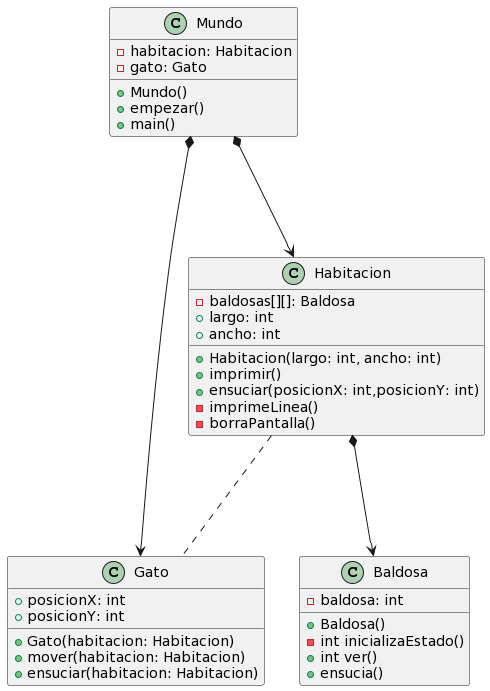
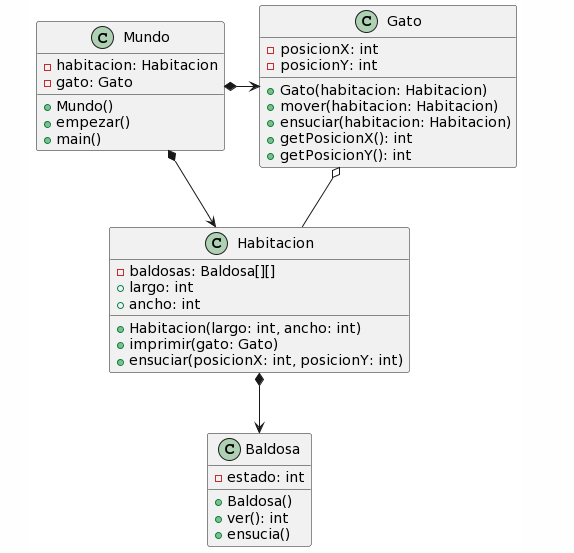
new version the world

diff --git a/Habitacion.java b/Habitacion.java
@@ -1,43 +1,28 @@
 public class Habitacion {
-
     private Baldosa[][] baldosas;
-    public int largo, ancho;
+    private int largo;
+    private int ancho;
 
     public Habitacion(int largo, int ancho) {
         this.largo = largo;
         this.ancho = ancho;
-        baldosas = new Baldosa[this.largo][this.ancho];
-        for (int i = 0; i < this.largo; i++) {
-            for (int j = 0; j < this.ancho; j++) {
-                this.baldosas[i][j] = new Baldosa();
-            }
-        }
-    }
-
-    public void imprimir() {
-        char vistaBaldosa;
-        borraPantalla();
-        imprimeLinea();
+        baldosas = new Baldosa[largo][ancho];
         for (int i = 0; i < largo; i++) {
-            for (int j = 0; j < this.ancho; j++) {
-                vistaBaldosa = " .oO#".charAt(this.baldosas[i][j].ver());
-                System.out.print(" " + vistaBaldosa + " ");
+            for (int j = 0; j < ancho; j++) {
+                baldosas[i][j] = new Baldosa();
             }
-            System.out.println();
         }
-        imprimeLinea();
     }
 
     public void imprimir(Gato gato) {
-        char vistaBaldosa;
         borraPantalla();
         imprimeLinea();
         for (int i = 0; i < largo; i++) {
             for (int j = 0; j < ancho; j++) {
-                if (gato.posicionX == j && gato.posicionY == i) {
+                if (gato.getPosicionX() == j && gato.getPosicionY() == i) {
                     System.out.print(">G<");
                 } else {
-                    vistaBaldosa = " .oO#".charAt(baldosas[i][j].ver());
+                    char vistaBaldosa = " .oO#".charAt(baldosas[i][j].ver());
                     System.out.print(" " + vistaBaldosa + " ");
                 }
             }
@@ -60,5 +45,13 @@ public class Habitacion {
     private void borraPantalla() {
         System.out.print("\033[H\033[2J");
         System.out.flush();
+    }
+
+    public int getLargo() {
+        return largo;
+    }
+
+    public int getAncho() {
+        return ancho;
     }
 }

diff --git a/Gato.java b/Gato.java
@@ -1,19 +1,23 @@
-public class Gato {
 
-    public int posicionX, posicionY;
+public class Gato {
+    private int posicionX;
+    private int posicionY;
 
     public Gato(Habitacion habitacion) {
-        posicionX = (int) (Math.random() * habitacion.ancho);
-        posicionY = (int) (Math.random() * habitacion.largo);
+        posicionX = (int) (Math.random() * habitacion.getAncho());
+        posicionY = (int) (Math.random() * habitacion.getLargo());
     }
 
     public void mover(Habitacion habitacion) {
         double aleatorio = Math.random();
-        if (aleatorio < .25 && posicionX + 1 < habitacion.ancho) {
+        int ancho = habitacion.getAncho();
+        int largo = habitacion.getLargo();
+
+        if (aleatorio < 0.25 && posicionX + 1 < ancho) {
             posicionX++;
-        } else if (aleatorio < .5 && posicionX > 0) {
+        } else if (aleatorio < 0.5 && posicionX > 0) {
             posicionX--;
-        } else if (aleatorio < .75 && posicionY + 1 < habitacion.largo) {
+        } else if (aleatorio < 0.75 && posicionY + 1 < largo) {
             posicionY++;
         } else if (aleatorio < 1 && posicionY > 0) {
             posicionY--;
@@ -21,8 +25,16 @@ public class Gato {
     }
 
     public void ensuciar(Habitacion habitacion) {
-        if (Math.random() > .75) {
+        if(Math.random() > .75) {
             habitacion.ensuciar(posicionX, posicionY);
         }
+    }
+
+    public int getPosicionX() {
+        return posicionX;
+    }
+
+    public int getPosicionY() {
+        return posicionY;
     }
 }

diff --git a/Baldosa.java b/Baldosa.java
@@ -1,17 +1,18 @@
+import java.util.Random;
+
 public class Baldosa {
-
     private int estado;
-
     private static final int LIMPIO = 0;
     private static final int MUY_SUCIO = 3;
-    private static final double[] PROBABILIDADES = {0.1, 0.2, 0.7, 0.9};
+    private static final double[] PROBABILIDADES = { 0.1, 0.2, 0.7, 0.9 };
+    private static final Random random = new Random();
 
     public Baldosa() {
         estado = inicializaEstado();
     }
 
     private int inicializaEstado() {
-        double probabilidadMugre = Math.random();
+        double probabilidadMugre = random.nextDouble();
 
         for (int i = MUY_SUCIO; i >= LIMPIO; i--) {
             if (probabilidadMugre >= PROBABILIDADES[i]) {
@@ -26,7 +27,7 @@ public class Baldosa {
     }
 
     public void ensucia() {
-        if (estado <= MUY_SUCIO) {
+        if (estado < MUY_SUCIO) {
             estado++;
         }
     }

diff --git a/Mundo.java b/Mundo.java
@@ -1,7 +1,6 @@
 import java.util.Scanner;
 
-class Mundo {
-
+public class Mundo {
     private Habitacion habitacion;
     private Gato gato;
 
@@ -10,17 +9,13 @@ class Mundo {
         gato = new Gato(habitacion);
     }
 
-    void empezar() {
+    public void empezar() {
+        Scanner entrada = new Scanner(System.in);
         do {
             gato.mover(habitacion);
             gato.ensuciar(habitacion);
             habitacion.imprimir(gato);
-        } while (quiereSeguir());
-    }
-
-    boolean quiereSeguir(){
-        Scanner entrada = new Scanner(System.in);
-        return !entrada.nextLine().equalsIgnoreCase("f");
+        } while (!entrada.nextLine().equalsIgnoreCase("f"));
     }
 
     public static void main(String[] args) {
